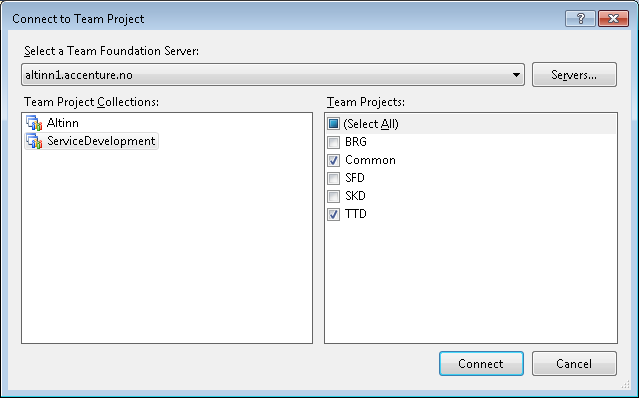
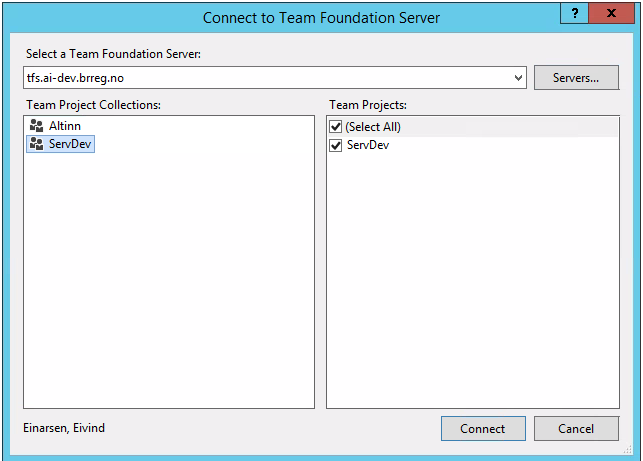
oppdatert vedlegg f (#74)
* oppdatert bilder
* oppdatert vedlegg f
* tekst om mappershare fjernet

Changed region(s): [[0.0, 0.0, 1.0, 1.0]]

diff --git a/content/guides/tul/vedlegg/f.md b/content/guides/tul/vedlegg/f.md
@@ -13,9 +13,13 @@ Visual Studio (2015 anbefalt) er installert og C\# Development Setting valgt for
 
 ## Koble opp mot tjenesteeiers TFS prosjekt 
 
-Velg *Team -\> Connect to Team Foundation Server…*
+Velg *Team -\> Manage connections…*
 
 {{<figure src="/docs/images/guides/tul/connect-to-tfs.png" title="Koble til Team Foundation Server" >}}
+
+Velg *Team -\> Manage connections…Connect to team project*
+
+{{<figure src="/docs/images/guides/tul/team-manage-connections.png" title="Koble til Team Foundation Server" >}}
 
 Velg *Servers…*
 
@@ -25,38 +29,24 @@ Velg *Add…*
 
 {{<figure src="/docs/images/guides/tul/add-tfs-server.png" title="Legg til TFS Server" >}}
 
-Angi url, path, portnummer og protokoll
 
-{{<figure src="/docs/images/guides/tul/add-tfs-details.png" title="Angi TFS-detaljer" >}}
 
-Oppgi `altinntest\<brukernavn>` (f.eks. altinntest\\ola.nordmann), passord og trykk *OK*.
+Kryss av ServDev (inneholder repository for Mapperne )  
 
-{{<figure src="/docs/images/guides/tul/tfs-login.png" title="TFS login" >}}
-
-Kryss av Common (inneholder bl.a. base klasser for mappere)  
-og for den tjenesteier du skal utvikle for, for eksempel Testdepartementet (TTD).
 
 Trykk *Connect*.
 
-{{<figure src="/docs/images/guides/tul/choose-team-projects.png" title="Velg Team Projects" >}}
+{{<figure src="/docs/images/guides/tul/git-clone-from-tfs.png" title="Velg Team Projects" >}}
 
-Under *Team Explorer*, ekspander (tjenesteeier) og dobbel-klikk *Source Control*.
+Velg Clone this repository for å hente kildekoden.
 
-{{<figure src="/docs/images/guides/tul/vs-team-explorer.png?width=700" title="Team Explorer" >}}
+{{<figure src="/docs/images/guides/tul/git-clone-from-tfs-steg-2.png?width=700" title="Team Explorer" >}}
 
-I *Source Control Explorer*, velg (tjenesteeier) og klikk så "Not mapped".
+Angi plassering av lokal arbeidskatalog, og velg Clone
 
-{{<figure src="/docs/images/guides/tul/source-control-explorer.png?width=700" title="Source Control Explorer" >}}
 
-Angi plassering av lokal arbeidskatalog, for eksempel `c:\dev\TTD`. Velg *Map*.
+{{<figure src="/docs/images/guides/tul/git-cloned-repository.png" title="Opprett workspace-mapping" >}}
 
-{{<figure src="/docs/images/guides/tul/vs-map.png" title="Opprett workspace-mapping" >}}
-
-Velg *Ja* for å hente ut kode:
-
-{{<figure src="/docs/images/guides/tul/vs-map-get-code.png" title="Velg Ja for å hent koden" >}}
-
-De fire siste stegene gjentas for å få sjekket ut *Common*.
 
 Åpne
 ```
@@ -153,4 +143,4 @@ velge å gjøre et oppslag mot Service Metadata slik at en evt. endring på denn
 
 Mappere for innsynstjenester og conditions for samhandlingstjenester utvikles i Visual Studio og kompileres og pakkes til msi-filer (ved
 hjelp av et setup-prosjekt i Visual Studio). Det anbefales å pakke generert msi og exe fil i et rar-arkiv før oversendelse til
-driftsleverandør. Msi-filene kan deretter installeres i de ulike SBL-miljøene av Driftsleverandøren. 
+driftsleverandør. Msi-filene kan deretter installeres i de ulike SBL-miljøene av Driftsleverandøren.
